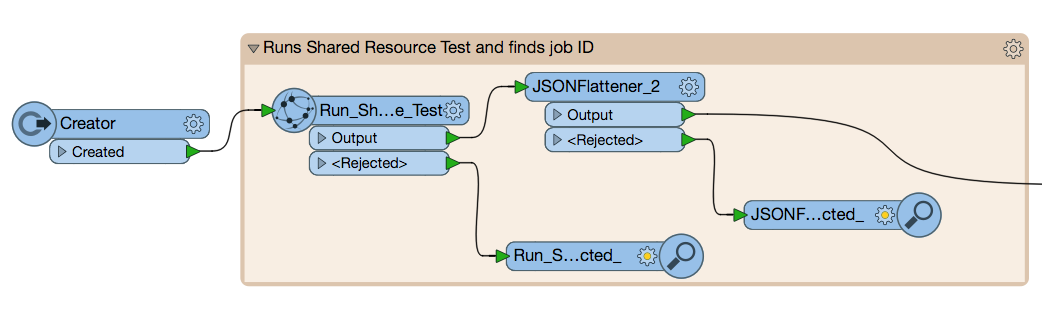
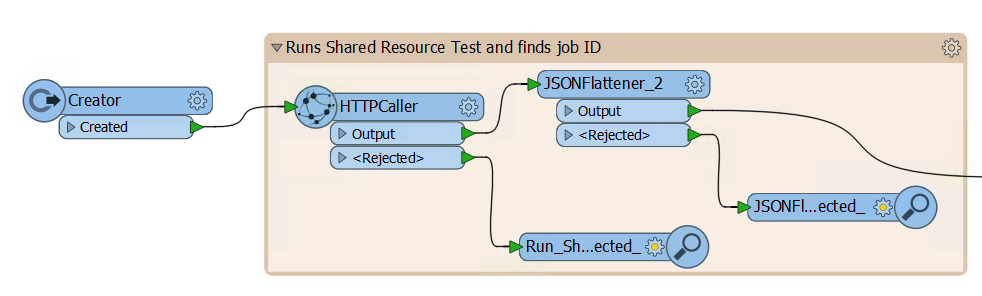
4.6Updates

Changed region(s): [[0.0, 0.0912, 1.0, 0.9426], [0.8248, 0.3953, 0.8554, 0.4561]]

diff --git a/FMESERVER_RESTAPI4Workspaces/4.6.Exercise.md b/FMESERVER_RESTAPI4Workspaces/4.6.Exercise.md
@@ -58,58 +58,72 @@ In the HTTPCaller, you can use the token, or use the authentication option. Simp
 
 **Please note that all calls in this section will require authorization.**
 
-
-      POST https://localhost/fmerest/v3/transformations/submit/Samples/austinDownload.fmw
-      Headers:
-            Accept: application/json
-            Authorization: fmetoken token=YOUR TOKEN
-
-      Body: {
-        "publishedParameters": [
-          {
-            "name": "MAXY",
-            "value": "42"
-          },
-          {
-            "name": "THEMES",
-            "value": [
-              "airports",
-              "cenart"
-            ]
-          }
-        ],
-        "TMDirectives": {
-          "rtc": false,
-          "ttc": 60,
-          "description": "This is my description",
-          "tag": "linux",
-          "priority": 5,
-          "ttl": 60
-        },
-        "NMDirectives": {
-          "directives": [
-            {
-              "name": "email_to",
-              "value": "example@safe.com"
-            }
-          ],
-          "successTopics": [
-            "SAMPLE_TOPIC"
-          ],
-          "failureTopics": []
-        }
-      }
+The first sections in the HTTPCaller to fill out is the Request and Headers. The layout in the HTTPCaller is very simple because all the areas to fill are clearly labelled. So, firs† paste the Request URL in. Then Change the HTTP Method to Post. Update the Headers.
 
 
+    POST http://localhost/fmerest/v3/transformations/submit/Samples/austinDownload.fmw
+    Headers:
+          Accept: application/json
+          Authorization: fmetoken token=YOUR TOKEN
+
+
+![](./Images/image4.6.2.Header.png)
+
+*Image 4.6.2 Header and URL*
 
 When you insert the body section of the call find **Upload Body** and
-click on the dropdown menu. Click on open text editor and paste the upload body into the call. Next, find the **Content Type** section and specify JSON (application/json). The body should look like this:
+click on the dropdown menu. Click on open text editor and paste the upload body into the call.
+
+        Body: {
+          "publishedParameters": [
+            {
+              "name": "MAXY",
+              "value": "42"
+            },
+            {
+              "name": "THEMES",
+              "value": [
+                "airports",
+                "cenart"
+              ]
+            }
+          ],
+          "TMDirectives": {
+            "rtc": false,
+            "ttc": 60,
+            "description": "This is my description",
+            "tag": "linux",
+            "priority": 5,
+            "ttl": 60
+          },
+          "NMDirectives": {
+            "directives": [
+              {
+                "name": "email_to",
+                "value": "example@safe.com"
+              }
+            ],
+            "successTopics": [
+              "SAMPLE_TOPIC"
+            ],
+            "failureTopics": []
+          }
+        }
 
 
-![](./Images/image4.6.2.UploadBody.png)
 
-*Image 4.6.2 Upload Body*
 
+
+
+
+ Next, find the **Content Type** section and specify JSON (application/json). The body should look like this:
+
+
+![](./Images/image4.6.2a.UploadBody.png)
+
+*Image 4.6.2a Upload Body*
+
+**4) Add a JSONFlattener to the Page**
 -   Now you can add the JSONFlattener. The JSONFlattener allows you to
     select a part of the JSON to expose, in our case we should expose
     the id, so we can use it for the next call.
@@ -118,13 +132,14 @@ click on the dropdown menu. Click on open text editor and paste the upload body 
 
 *Image 4.6.3 JSON Flattener Parameters*
 
-Step 2. Get Job Status
+*** Get Job Status Overview ***
 
 ![](./Images/image4.6.4.Step2.png)
 
-*Image 4.6.4 Step 2.*
+*Image 4.6.4 Get Job Status.*
 
--   In this section, we are using the response from the previous call to
+**4) Add an HTTPCaller**
+ In this section, we are using the response from the previous call to
     determine if the call was successfully run. We will add a
     **HTTPCaller.** In the HTTPCaller, click on the drop-down menu
     next to the Request URL and click open Text Editor. Paste the
@@ -144,18 +159,20 @@ Step 2. Get Job Status
 
 *Image 4.6.5 HTTP Caller Parameters*
 
--   Next, we need another **JSON Flattener** to expose the
-    \_http\_status\_code from the job\_status attribute. So, for the
-    input parameters under JSON Document, we are going to select
-    job\_status. Then under attributes to expose write
-    \_http\_status\_code.
+**5) Add a JSON Flattener**
+
+ Next, we need another **JSON Flattener** to expose the
+\_http\_status\_code from the job\_status attribute. So, for the
+input parameters under JSON Document, we are going to select
+job\_status. Then under attributes to expose write \_http\_status\_code.
 
 ![](./Images/image4.6.6.JSONFlatParam.png)
 
 *Image 4.6.6 Second JSON Flattener Parameters*
 
--   Now we are going to add a **Tester** to determine if the workspace
-    was successfully run. The tester should be set up like this:
+**6) Add a Tester**
+
+-   Now we are going to add a **Tester** to determine if the workspace was successfully run. The tester should be set up like this:
 
 ![](./Images/image4.6.7.TesterParam.png)
 
@@ -165,6 +182,8 @@ Step 2. Get Job Status
     next workspace will be triggered.
 
 Step 3. New Job is Run
+
+**6) Add another HTTPCaller**
 
 -   Finally, I used a third HTTPCaller to run a new job synchronously.
     To do this I used the same call that is
